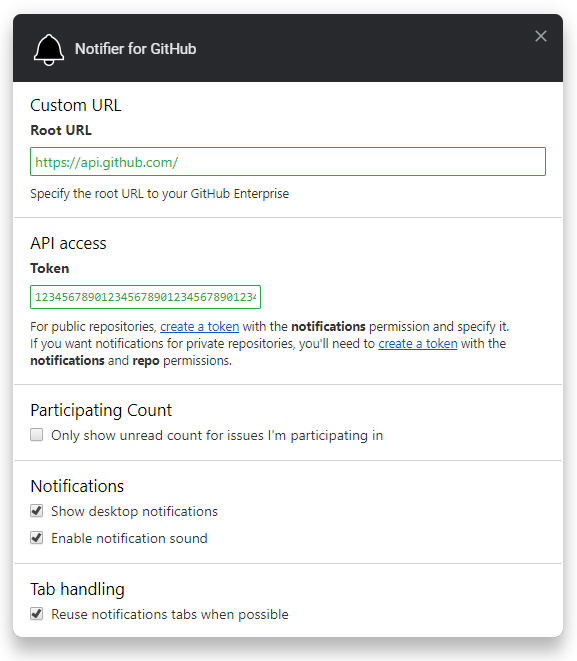
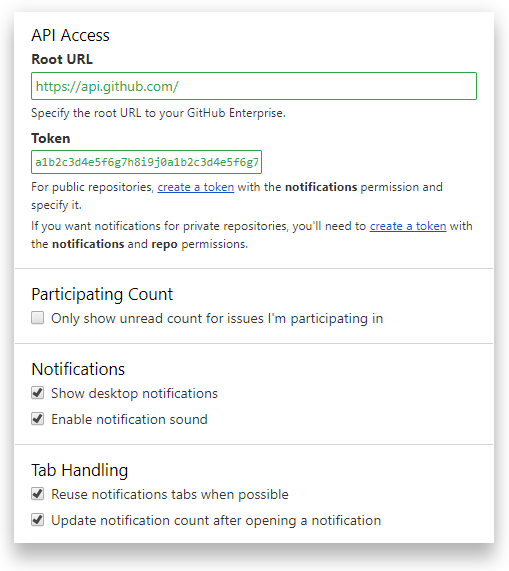
Update readme and cleanup options UI (#184)

diff --git a/source/options.html b/source/options.html
@@ -4,26 +4,23 @@
 <link rel="stylesheet" href="options.css">
 <form id="options-form">
 	<h2 class="only-firefox">Options</h2>
+	<hr class="only-firefox">
 
 	<section>
-		<h3>Custom URL</h3>
+		<h3>API Access</h3>
+
 		<label>
 			<h4>Root URL</h4>
 			<input type="url" name="rootUrl" placeholder="e.g. https://github.yourco.com/">
 		</label>
-		<div class="small">Specify the root URL to your GitHub Enterprise</div>
-	</section>
+		<p class="small">Specify the root URL to your GitHub Enterprise.</p>
 
-	<hr>
-
-	<section>
-		<h3>API access</h3>
 		<label>
 			<h4>Token</h4>
 			<input type="text" name="token" placeholder="a1b2c3d4e5f6g7h8i9j0a1b2c3d4e5f6g7h8i9j0" pattern="[a-z\d]{40}" spellcheck="false">
 		</label>
-		<div class="small">For public repositories, <a id="gh_link" href="https://github.com/settings/tokens/new?scopes=notifications&description=Notifier for GitHub extension" target="gh_target">create a token</a> with the <strong>notifications</strong> permission and specify it.</div>
-		<div class="small">If you want notifications for private repositories, you'll need to <a id="gh_link" href="https://github.com/settings/tokens/new?scopes=notifications,repo&description=Notifier for GitHub extension" target="gh_target">create a token</a> with the <strong>notifications</strong> and <strong>repo</strong> permissions.</div>
+		<p class="small">For public repositories, <a href="https://github.com/settings/tokens/new?scopes=notifications&description=Notifier for GitHub extension">create a token</a> with the <strong>notifications</strong> permission and specify it.</p>
+		<p class="small">If you want notifications for private repositories, you'll need to <a href="https://github.com/settings/tokens/new?scopes=notifications,repo&description=Notifier for GitHub extension">create a token</a> with the <strong>notifications</strong> and <strong>repo</strong> permissions.</p>
 	</section>
 
 	<hr>
@@ -53,7 +50,7 @@
 	<hr>
 
 	<section>
-		<h3>Tab handling</h3>
+		<h3>Tab Handling</h3>
 		<label>
 			<input type="checkbox" name="reuseTabs" data-request-permission="tabs">
 			Reuse notifications tabs when possible

diff --git a/source/options.css b/source/options.css
@@ -3,17 +3,6 @@ html {
 	overflow-x: hidden;
 }
 
-/* Firefox only */
-.only-firefox {
-	display: none;
-}
-
-@-moz-document url-prefix('') {
-	.only-firefox {
-		display: block;
-	}
-}
-
 :root {
 	--github-green: #28a745;
 	--github-red: #cb2431;
@@ -24,33 +13,40 @@ body {
 	font-size: 14px;
 }
 
+p {
+	margin-top: 0.25em;
+	margin-bottom: 0;
+	line-height: 1.5;
+}
+
+h2,
 h3,
 h4 {
 	width: 100%;
-	margin: 0;
-	margin-bottom: 0.5rem;
+	margin-top: 0;
+	margin-bottom: 0.25em;
 }
 
-:root hr {
+hr {
 	margin: 1rem -1rem;
 	border: none;
 	border-bottom: solid #d3d3d3 1px;
 }
 
 .small {
-	font-size: 0.9em;
+	font-size: 0.875em;
 }
 
 label {
 	display: flex;
 	width: 100%;
-	margin: 0.5rem 0;
+	margin: 0.5em 0 0;
 	align-items: center;
 	flex-wrap: wrap;
 }
 
 label input[type='checkbox'] {
-	margin-right: 0.5rem;
+	margin-right: 0.5em;
 }
 
 input {
@@ -61,7 +57,7 @@ input[type='url'],
 input[type='text'] {
 	display: block;
 	width: 100%;
-	padding: 0.25rem;
+	padding: 0.25em;
 }
 
 input:not([type='checkbox']):not(:placeholder-shown):valid {
@@ -78,5 +74,15 @@ input[type='text'][name='token'] {
 	font-family: Consolas, monospace;
 	font-size: 12px;
 	width: 35ch; /* Show only a part of the token */
-	box-shadow: none !important;
+}
+
+/* Firefox only */
+.only-firefox {
+	display: none;
+}
+
+@-moz-document url-prefix('') {
+	.only-firefox {
+		display: block;
+	}
 }

diff --git a/readme.md b/readme.md
@@ -1,61 +1,72 @@
-# Notifier for GitHub [![Build Status](https://travis-ci.org/sindresorhus/notifier-for-github.svg?branch=master)](https://travis-ci.org/sindresorhus/notifier-for-github)
+# <img src="source/icon.png" width="45" align="left"> Notifier for GitHub [![Build Status](https://travis-ci.org/sindresorhus/notifier-for-github.svg?branch=master)](https://travis-ci.org/sindresorhus/notifier-for-github)
 
 [link-cws]: https://chrome.google.com/webstore/detail/notifier-for-github/lmjdlojahmbbcodnpecnjnmlddbkjhnn "Version published on Chrome Web Store"
 [link-amo]: https://addons.mozilla.org/en-US/firefox/addon/notifier-for-github/ "Version published on Mozilla Add-ons"
 
 > Browser extension - Get notified about new GitHub notifications
 
-It checks for new GitHub notifications every minute.
+Checks for new GitHub notifications every minute, shows the number of notifications you have, and shows desktop notifications as well.
 
 
 ## Install
 
-- [**Chrome** extension][link-cws] [<img valign="middle" src="https://img.shields.io/chrome-web-store/v/lmjdlojahmbbcodnpecnjnmlddbkjhnn.svg?label=%20">][link-cws]
-- [**Firefox** add-on][link-amo] [<img valign="middle" src="https://img.shields.io/amo/v/notifier-for-github.svg?label=%20">][link-amo]
+- [**Chrome** extension.][link-cws] [<img valign="middle" src="https://img.shields.io/chrome-web-store/v/lmjdlojahmbbcodnpecnjnmlddbkjhnn.svg?label=%20">][link-cws]
+- [**Firefox** add-on.][link-amo] [<img valign="middle" src="https://img.shields.io/amo/v/notifier-for-github.svg?label=%20">][link-amo]
 - **Opera** extension: Use [this Opera extension](https://addons.opera.com/en/extensions/details/download-chrome-extension-9/) to install the Chrome version.
 
 
 ## Highlights
 
-- Notification count in the toolbar icon
-- Click the toolbar icon to go to the notifications page
-- Desktop notifications
-- Option to show only unread count for issues you're participating in
-- GitHub Enterprise support
+- [Notification count in the toolbar icon.](#notification-count)
+- [Desktop notifications.](#desktop-notifications)
+- [GitHub Enterprise support.](#github-enterprise-support)
+- Click the toolbar icon to go to the GitHub notifications page.
+- Option to show only unread count for issues you're participating in.
 
 *Make sure to add a token in the options.*
+
 
 ## Screenshots
 
 ### Notification count
-![](media/screenshot.png)
+![Screenshot of extension should notification count](media/screenshot.png)
 
 ### Options
-![](media/screenshot-options.png)
+![Options page for Notifier for GitHub](media/screenshot-options.png)
 
 
 ## Permissions
 
-Both requested permissions are optional, so you can just decline if you don't want it.
+The extension requests a couple of permissions which are completely optional, and the extension works as intended anyway even if you ignore these. Some features of the extension work only when you grant these permissions, mentioned below.
 
-#### Tabs permission
+### Tabs permission
 
-The first time you click on the extension icon, it will ask you for access to browser tabs. We need this to know if there is already an opened GitHub notifications page and switch to it if so.
+When you click on the extension icon, the GitHub notifications page is opened in a new tab. The tabs permission lets us switch to an existing notifications tab if you already have one opened instead of opening a new one each time you click it.
 
-#### Notifications permission
+This permission also lets us update notification count immediately after opening a notification. You can find both of these options under the "Tab handling" section in the extensions options page.
+
+### Notifications permission
 
 If you want to receive desktop notifications for public repositories, you can enable them on extension options page. You will then be asked for the notifications permission.
 
-#### Repos permission
+### Repos permission
 
-If you want to receive (useful) desktop notifications for any private repositories you have, you will be asked for the repo permission as well. This is due to GitHub's current permission scheme, as the only way we can read anything about your private repos is if we have full control over them. If you're concerned with your security in this manner please feel free to not give this permission, just be aware that if you do not enable this permission, clicking on the notification will take you to the notifications home page since we can't get any information about the repo you got the notification for.
+If you want to receive (useful) desktop notifications for any private repositories you have, you will have to create a token that has access to the `repo` scope as well. This is due to GitHub's current permission scheme, as the only way we can read anything about your private repos is if we have full control over repositories.
+
+If you're concerned with your security in this manner please feel free ignore this scope, just be aware that if you do not grant this scope, clicking on the notification will take you to the notifications home page since we can't get any information about the repo you got the notification for.
 
 
-## Desktop notifications
+## Configuration
 
-![](media/screenshot-notification.png)
+### Desktop notifications
+
+![Notification from Notifier for GitHub extension](media/screenshot-notification.png)
 
 You can opt-in to receive desktop notifications for new notifications on GitHub. The extension checks for new notifications every minute, and displays notifications that arrived after the last check if there are any. Clicking on the notification opens it on GitHub.
+
+### GitHub Enterprise support
+
+By default, the extension works for the public [GitHub](https://github.com) site. If you want the extension to show notifications from a GitHub Enterprise server, you have to configure the extension to use the API URL for your GitHub Enterprise server (like `https://github.yourco.com/`).
 
 
 ## Maintainers
